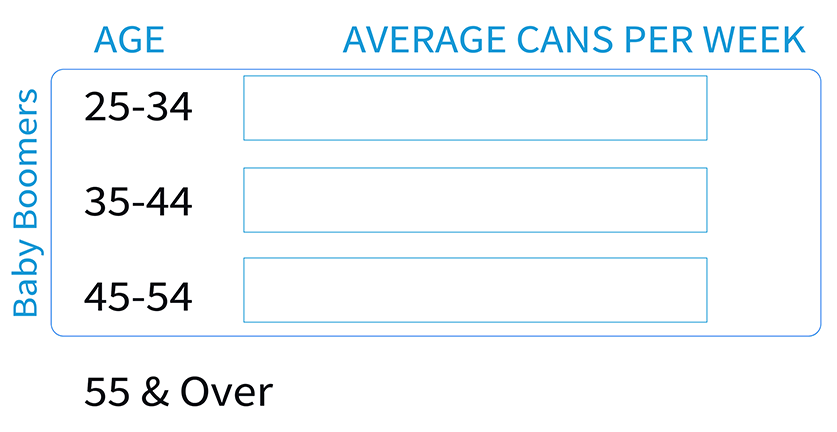
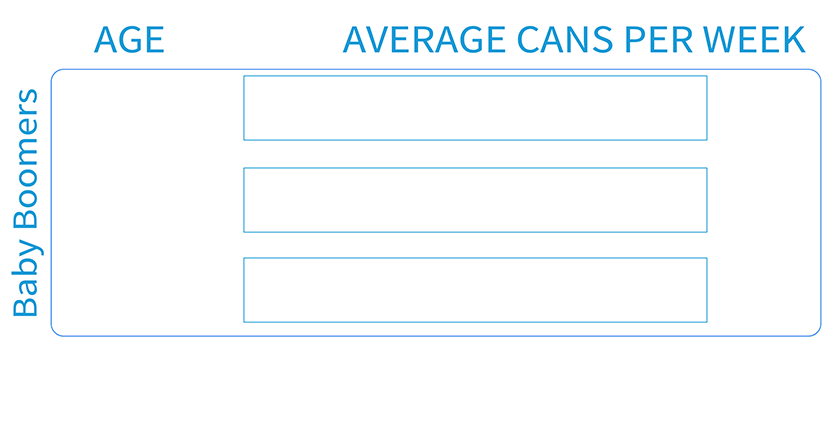
Add activity labels and fourth field.

diff --git a/_harp/js/activities/TripleChartSliderActivity.js b/_harp/js/activities/TripleChartSliderActivity.js
@@ -6,58 +6,65 @@ Used for quizzes
 @constructor
 */
 var TripleChartSliderActivity = Activity.extend({
-  init:function(properties) //constructor
-  {
-    var that = this;
-    this._super(properties); //call parent
-    this.handleSelector = properties.handleSelector;
-    this.submitButton = this.page.$el.find(properties.submitSelector);
-    this.answerList = properties.answerList;
+  init: function (properties) //constructor
+    {
+      var that = this;
+      this._super(properties); //call parent
+      this.handleSelector = properties.handleSelector;
+      this.labelMax = properties.labelMax;
+      this.submitButton = this.page.$el.find(properties.submitSelector);
+      this.answerList = properties.answerList;
 
-  },
-  created:function() //when quiz is created
-  {
-    this._super(); //call parent
-    this._create();
-  },
-  _create:function()
-  {
+    },
+  created: function () //when quiz is created
+    {
+      this._super(); //call parent
+      this._create();
+    },
+  _create: function () {
     var that = this;
     var handles = this.page.$el.find(this.handleSelector);
     // for each handle clip....
-    handles.each(function (n, o){
+    handles.each(function (n, o) {
       var handle = $(o);
+      handle.data("index", n + 1);
       handle.draggable({
-        axis: "x", 
-        containment:"parent",
-        drag:function(e, ui){
+        axis: "x",
+        containment: "parent",
+        drag: function (e, ui) {
           // find the handle, and the "bar" associated with it.
-          var active_handle = $(e.target);
-          var level = active_handle.parent().find(".level");
+          var $handle = $(e.target);
+          var $level = $handle.parent().find(".level");
+          var $label = that.page.$el.find(label_selector);
+          var label_selector = ".value.row" + $handle.data("index")
           // Find left, and original left (which is max)
           var left = ui.position.left;
-          var oleft = active_handle.parent().width() - active_handle.width();
+          var oleft = $handle.parent().width() - $handle.width();
           // Find values for the blue bar.
           var level_width = oleft - left;
-          var level_perc = Math.floor(level_width / oleft*100)/100;
-          level.css("width", level_width);
+          var level_perc = Math.floor(level_width / oleft * 100) / 100;
+          var level_val = level_perc * that.labelMax;
+
+          level_val = Math.round(level_val * 10) / 10;
+          $label.text(level_val);
+          $level.css("width", level_width);
         },
-        start:function(e, ui){
+        start: function (e, ui) {
           // find the bar, and the instructions associated with it.
-          var active_handle = $(e.target);
-          var instruct = active_handle.parent().find(".instruct");
+          var $handle = $(e.target);
+          var instruct = $handle.parent().find(".instruct");
           // prevent page advancing.
           that.page.module.canSwipe = false;
           instruct.fadeOut(100);
         },
-        stop:function(){
+        stop: function () {
           that.submitButton.show();
           // turn page advancing back on.
           that.page.module.canSwipe = true;
-         } 
+        }
       })
     })
-    this.submitButton.on("click", function(){
+    this.submitButton.on("click", function () {
       that.submitButton.fadeOut(100).delay(100).hide();
       //
       // make sure all the instruction are hidden - 
@@ -66,23 +73,58 @@ var TripleChartSliderActivity = Activity.extend({
       instructs.fadeOut(100);
       //
       // animate the handles to the correct positions.
-      handles.each(function (n, o){
-        console.log(" Handle " , o);
-        var active_handle = $(o);
-        var level = active_handle.parent().find(".level");
+      handles.each(function (n, o) {
+        var $handle = $(o);
+        var $level = $handle.parent().find(".level");
+        // the manually set final answer.
         var answer = that.answerList[n];
-          var max = active_handle.parent().width() - active_handle.width();
-          var oleft = max;
-          var level_width = oleft - answer;
-          level.animate({
-            width: level_width,
-          },2000);
-          active_handle.animate({
-            left: answer,
-          },2000);
+        // the max left position
+        var oleft = $handle.parent().width() - $handle.width();
+        // the relative left position of the given answer.
+        var answerPos = oleft - ((answer / that.labelMax) * oleft);
+        // the width of the blue bar for that handle position.
+        var level_width = oleft - answerPos;
+        // the field with the text display of the value.
+        var $label = that.page.$el.find(".value.row" + $handle.data("index"));
+        
+        $level.animate({
+          width: level_width,
+        }, 2000);
+        $handle.animate({
+            left: answerPos,
+          },{
+            duration:2000,
+            step: function () {
+              that.updateValueLabels();
+            },
+            complete: function(){
+              var $handle = $(this);
+              var $label = that.page.$el.find(".value.row" + $handle.data("index"));
+              var end_value = that.answerList[$handle.data("index")-1]
+              $label.text(end_value);
+            }
+          }
+        );
       });
-      
     })
   },
-  
+  updateValueLabels:function(){
+    var that = this;
+    var handles = this.page.$el.find(this.handleSelector);
+    // for each handle clip....
+    handles.each(function (n, o) {
+      var $handle = $(o);
+      var label_selector = ".value.row" + $handle.data("index")
+      var $label = that.page.$el.find(label_selector);
+      // Find left, and original left (which is max)
+      var left = $handle.position().left;
+      var oleft = $handle.parent().width() - $handle.width();
+      // Find values for the blue bar.
+      var level_width = oleft - left;
+      var level_perc = Math.floor(level_width / oleft * 100) / 100;
+      var level_val = level_perc * that.labelMax;
+      level_val = Math.round(level_val * 10) / 10;
+      $label.text(level_val);
+    });
+  }
 });

diff --git a/_harp/css/_page-chart.scss b/_harp/css/_page-chart.scss
@@ -6,12 +6,40 @@
     width: 837px;
     height: 516px;
     
+    .label {
+      font-size: 2.6em;
+      padding-top:6px;
+      color: black;
+      position: absolute;
+      left: 70px;
+    }
+    .value {
+      position: absolute;
+      left: 728px;
+      text-align: left;
+      font-size: 1.6em;
+      right: 10px;
+      color: #0099d9;
+      padding-top: 16px;
+    }
+    .row1{
+      top: 75px;
+    }
+    .row2{
+      top: 167px;
+    }
+    .row3{
+      top: 257px;
+    }
+    .row4{
+      top: 347px;
+    }
     .dragarea{
       position: absolute;
       display: block;
       width:465px;
       height:66px;
-      background-color:rgba(164,69,71,0.05);
+      left: 243px;
       
       .handle{
         right: 0px;
@@ -30,15 +58,15 @@
     }
     #area1{
       top: 75px;
-      left: 243px;
     }
     #area2{
-      top: 167px;
-      left: 243px;
+      top: 167px
     }
     #area3{
       top: 257px;
-      left: 243px;
+    }
+    #area4{
+      top: 347px;
     }
     #background{
       position: absolute;

diff --git a/_harp/js/main.js b/_harp/js/main.js
@@ -85,7 +85,8 @@ var TechMap = MapDialogueModule.extend({
           properties:{
             handleSelector:".ui-draggable",
             submitSelector:"#submitBtn",
-            answerList:[10, 210, 310],
+            labelMax: 15,
+            answerList:[13.4, 12.3, 10.3, 6.1],
           },
         }
       ],
